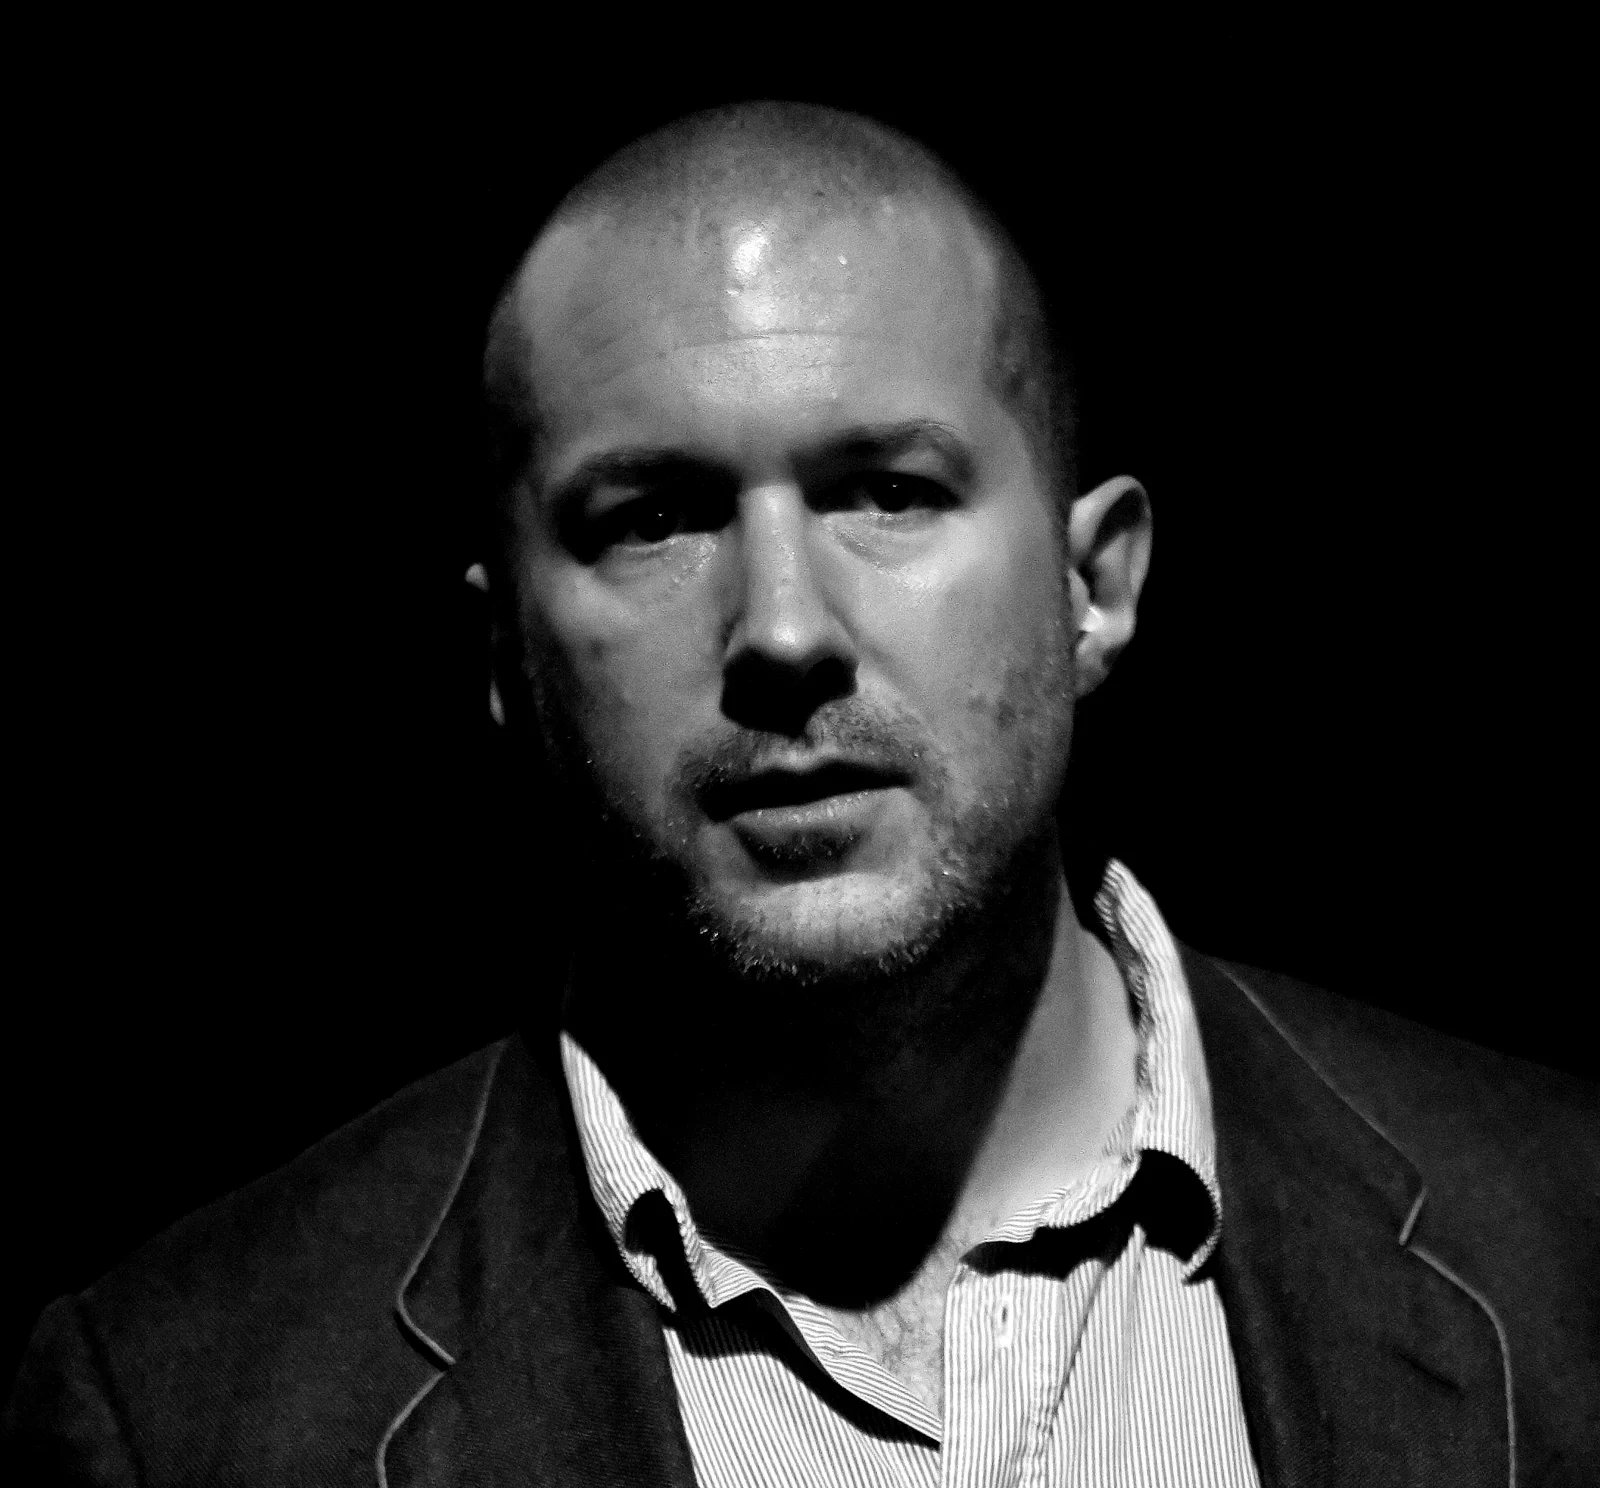
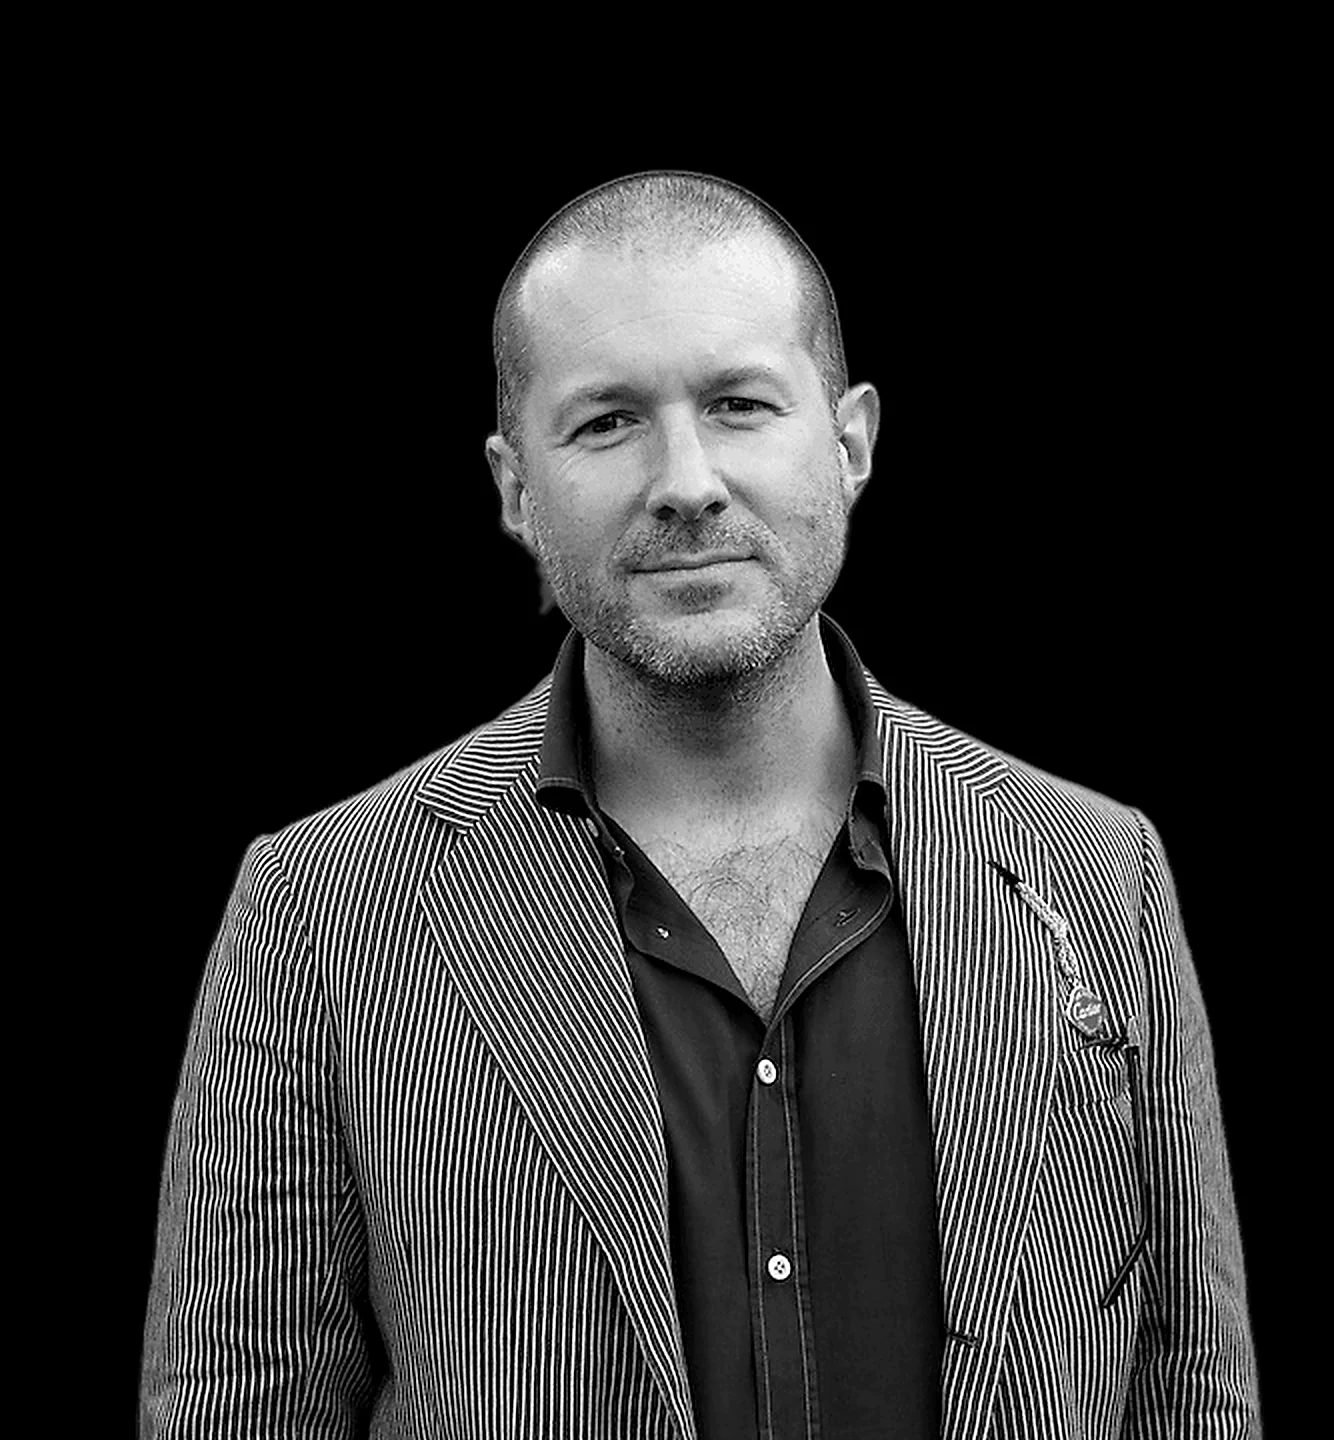
Home quote: a more flattering portrait of Sir Jony Ive (Marcus Dawes, CC BY-SA 3.0)

diff --git a/src/app/page.tsx b/src/app/page.tsx
@@ -26,8 +26,8 @@ export default function HomePage() {
                 </blockquote>
                 <figcaption className="sw-by text-read">{COPY.statementBy}</figcaption>
               </figure>
-              <a className="sw-credit" href="https://commons.wikimedia.org/wiki/File:Jonathan_Ive_2009.jpg" target="_blank" rel="noopener noreferrer">
-                Photo: Gary Cohen, CC BY-SA 2.0
+              <a className="sw-credit" href="https://commons.wikimedia.org/wiki/File:Jonathan_Ive_(OTRS).jpg" target="_blank" rel="noopener noreferrer">
+                Photo: Marcus Dawes, CC BY-SA 3.0
               </a>
             </div>
           </div>
